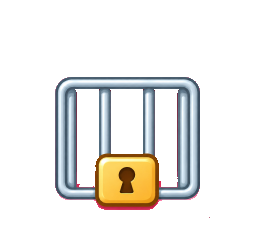
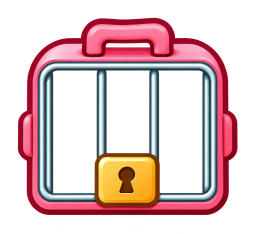
UI: lồng mèo theo Figma mới (con vật to trong lồng, lồng 145% ô), anim mở lồng cửa rời + mặt vui, hộp cardboard / thiếc to hơn
- Lồng: khung trước mới từ Figma, con vật đặt đúng mẫu ghép, lồng to 145% ô (được che con phía sau)
- Mở lồng: lồng giữ đóng tới lúc anim (cageHeld); cánh cửa (cắt từ bản cửa mở) rời ra rơi xuống,
  khung + thân lồng thu lại, con vật bật to rồi về đúng chỗ / cỡ thường; mặt vui lúc vừa được thả
- Sửa: con vật giữ cỡ phóng to sau khi thoát lồng (anim fill chưa huỷ)
- Hộp cardboard + hộp thiếc to ngang con vật (ảnh hộp mở phóng theo)

diff --git a/Gom-Gom-Ban-Choi/game/play/match-fx.js b/Gom-Gom-Ban-Choi/game/play/match-fx.js
@@ -3,12 +3,12 @@
 import { mergeTarget } from '../core/board-rules.mjs';
 import { clusterPoints, turnPoints, rollPoints, POINTS_PER_CRATE } from '../core/scoring.mjs';
 import { DRAG, EFFECTS } from '../data/tuning.mjs';
-import { CRATE_SVG, CRATE_OPEN_SRC, CAGE_OPEN_SRC } from '../ui/board-art.mjs';
+import { CRATE_SVG, CRATE_OPEN_SRC, CAGE_OPEN_SRC, CAGE_DOOR_SRC } from '../ui/board-art.mjs';
 import { playSound, playMeowChorus } from '../ui/sound.mjs';
 import { $, reduceMotion } from '../app/shared.js';
 import { W, DROP_MS, LIFT_MS, MERGE_MS, cellEl, pendingMerges, fxLayer, state, look, addArt, wait, H } from './context.js';
 import { holdScoreSlots, showMergeScore, releaseScoreSlot, scoreTier } from './score-bar.js';
-import { setFatMood, fatAnnoyedUntil, cageUp, uncage } from './board-view.js';
+import { setFatMood, fatAnnoyedUntil, cageUp, uncage, cageHeld } from './board-view.js';
 
 // Anim một lượt đặt thẻ đã chốt state (gom, thùng, chuồng, cỏ, khen, hiệu ứng). Dùng cho lượt người chơi và lượt xả sau khi thắng.
 export function animateTurn(turn) {
@@ -355,6 +355,8 @@ function flyGrass(cleaned, delay) {
 // Ô chuồng đã được vẽ lại theo trạng thái mới (bớt ổ khóa / hết chuồng), anim chạy chồng lên sau khi cụm gom xong.
 function rattleCages(match, delay) {
   if (reduceMotion.matches || (!match.caged?.length && !match.freed?.length)) return;
+  // Gọi trước khi vẽ lại bàn: ô được thả vẫn vẽ lồng đóng tới lúc anim mở.
+  match.freed.forEach(index => cageHeld.add(index));
   setTimeout(() => {
     const layer = fxLayer();
     match.caged.forEach(index => {
@@ -364,12 +366,7 @@ function rattleCages(match, delay) {
       cell.addEventListener('animationend', () => cell.classList.remove('cage-hit'), { once: true });
       flyBits(layer, cell, 'cage-lock', 1);
     });
-    match.freed.forEach(index => {
-      const cell = cellEl(index);
-      if (!cell) return;
-      flyBits(layer, cell, 'cage-lock', 1);
-      openCage(layer, cell);
-    });
+    match.freed.forEach(openCage);
   }, delay);
 }
 
@@ -390,6 +387,7 @@ export function flyBits(layer, cell, className, count) {
 // Nạp sẵn ảnh hộp mở / lồng mở để lúc đổi ảnh không bị trống một khung.
 new Image().src = CRATE_OPEN_SRC;
 new Image().src = CAGE_OPEN_SRC;
+new Image().src = CAGE_DOOR_SRC;
 // Bật mở mượt: nén xuống lấy đà, ảnh "mở" hiện dần chồng lên ảnh "đóng" trong lúc bật lên, giữ một nhịp, rồi bay nhẹ lên + mờ dần + khói.
 async function openUp(ghost, openSrc) {
   const shut = ghost.querySelector('img');
@@ -409,14 +407,62 @@ async function openUp(ghost, openSrc) {
   await ghost.animate([{ scale: 1, opacity: 1, translate: '0 0' }, { scale: .7, opacity: 0, translate: '0 -12%' }],
     { duration: 320, easing: 'ease-in', fill: 'forwards' }).finished.catch(() => {});
 }
-// Lồng bật cửa khi mèo được thả: bóng lồng đóng tại ô, mở cửa (openUp) rồi tan; mèo thật bên dưới đã ra khỏi lồng.
-function openCage(layer, cell) {
-  const ghost = document.createElement('span');
-  ghost.className = 'cage-ghost';
-  ghost.style.cssText = `left:${cell.offsetLeft}px;top:${cell.offsetTop}px;width:${cell.offsetWidth}px;height:${cell.offsetHeight}px`;
-  ghost.innerHTML = `<img src="assets/img/board/cage.png" alt="">`;
-  layer.append(ghost);
-  openUp(ghost, CAGE_OPEN_SRC).then(() => ghost.remove());
+// Lồng mở khi con vật được thả. Ô thật vẫn vẽ lồng đóng (cageHeld) tới lúc này; anim chạy ngay trong khung .cage-box của ô
+// (thân lồng -> con vật -> khung trước -> cánh cửa; bàn là cảnh 3D nên lớp hiệu ứng riêng không xếp xen được).
+// Khung trước đổi sang bản cửa mở (đã bỏ cánh cửa) + cánh cửa tách riêng, rồi CÙNG LÚC:
+// - cánh cửa bung ra, rời khỏi lồng, xoay và rơi xuống, mờ dần;
+// - thân lồng + khung trước thu lại cùng nhau, mờ dần (ease-out: chuyển động ngay từ đầu);
+// - con vật bật to lên (được thả) rồi về đúng chỗ / cỡ thường của ô (đo thật: cuối anim khớp ô, rút khỏi khung không giật).
+const CAGE_OPEN_MS = 520;
+const PET_POP = 1.18;
+function openCage(index) {
+  const cell = cellEl(index);
+  const release = () => {
+    cageHeld.delete(index);
+    const now = cellEl(index);
+    if (!now?.querySelector('.cage-box') || state.board[index]?.cage) return;
+    // anim của con vật có fill: forwards -> phải huỷ trước khi rút ra, không thì nó giữ cỡ / chỗ cuối anim ở ô thường (lỗi cũ: to hơn con khác)
+    now.querySelectorAll('.cage-box > *').forEach(el => el.getAnimations().forEach(anim => anim.cancel()));
+    uncage(now);
+    now.classList.remove('caged', 'cage-opening');
+  };
+  const pet = cell?.querySelector('.cage-box > .cat');
+  if (!pet || state.board[index]?.cage) return release();
+  // Đo chỗ con vật khi ra khỏi lồng (rút ra, đo, cất lại trong cùng một khung hình nên không thấy chớp).
+  const caged = pet.getBoundingClientRect();
+  uncage(cell);
+  cell.classList.remove('caged');
+  const free = cell.querySelector(':scope > .cat').getBoundingClientRect();
+  cell.classList.add('caged', 'cage-opening');
+  cageUp(cell);
+  // Vừa được thả: mặt vui ngay từ lúc lồng bung, giữ thêm một nhịp sau khi ra khỏi lồng (.cheered: chỉ đổi mặt, không nhảy chồng lên anim thả).
+  clearTimeout(cell.petTimer);
+  cell.classList.remove('idle-cute', 'grumpy', 'grumpy-chew');
+  cell.classList.add('petted', 'cheered');
+  cell.petTimer = setTimeout(() => cell.classList.remove('petted', 'cheered'), CAGE_OPEN_MS + 1000);
+  const box = cell.querySelector('.cage-box'), boxRect = box.getBoundingClientRect();
+  const kx = box.offsetWidth / boxRect.width, ky = box.offsetHeight / boxRect.height;
+  const inBox = cell.querySelector('.cage-box > .cat'), front = cell.querySelector('.cage-front'), back = cell.querySelector('.cage-back');
+  front.src = CAGE_OPEN_SRC;
+  front.insertAdjacentHTML('afterend', `<img class="cage-door" src="${CAGE_DOOR_SRC}" alt="" draggable="false">`);
+  const door = cell.querySelector('.cage-door');
+  const dx = (free.left - caged.left) * kx, dy = (free.top - caged.top) * ky, k = free.width / caged.width;
+  const opts = { duration: CAGE_OPEN_MS, fill: 'forwards' };
+  // phóng quanh tâm con vật: bù phần dịch do transform-origin 0 0
+  const w = inBox.offsetWidth, h = inBox.offsetHeight, pop = k * PET_POP;
+  inBox.animate([
+    { translate: '0 0', scale: 1 },
+    { translate: `${dx * .5 - w * (pop - 1) / 2}px ${dy * .5 - h * (pop - 1) * .8}px`, scale: pop, offset: .4, easing: 'ease-in-out' },
+    { translate: `${dx}px ${dy}px`, scale: k },
+  ], { ...opts, easing: 'ease-out' });
+  door.animate([
+    { translate: '0 0', rotate: '0deg', opacity: 1, easing: 'ease-out' },
+    { translate: '-8% -6%', rotate: '-10deg', opacity: 1, offset: .25, easing: 'ease-in' },
+    { translate: '-14% 75%', rotate: '-35deg', opacity: 0 },
+  ], opts);
+  const shrink = [{ scale: 1, opacity: 1 }, { scale: .3, opacity: 0 }];
+  front.animate(shrink, { ...opts, easing: 'cubic-bezier(.2,.6,.35,1)' });
+  back.animate(shrink, { ...opts, easing: 'cubic-bezier(.2,.6,.35,1)' }).finished.then(release, release);
 }
 // Bóng hộp giữ nguyên chỗ cũ tới lúc gom xong, rung lên, bật nắp, giữ một nhịp rồi thu nhỏ biến mất + khói.
 export function breakCrates(indices, delay) {

diff --git a/Gom-Gom-Ban-Choi/game/ui/play/base.css b/Gom-Gom-Ban-Choi/game/ui/play/base.css
@@ -412,10 +412,10 @@ body.card-dragging .tutorial-hand{visibility:hidden}
 /* ===== Thùng gỗ: ô chặn, vỡ khi gom mèo sát bên ===== */
 .cell.block{padding:1px;border:0;background:none;box-shadow:none;cursor:default}
 .cell.block .crate{width:100%;height:100%;display:block;object-fit:contain;filter:drop-shadow(0 3px 2px #6b3f1c55)}
-/* ảnh Figma có lề trong suốt: phóng nhẹ cho hộp to ngang mèo */
-img.crate{scale:1.12}
+/* ảnh Figma có lề trong suốt: phóng cho hộp (cardboard + thiếc) to ngang con vật; đáy giữ sát đáy ô, phần dư nhô lên che bớt ô phía sau */
+img.crate{scale:1.32;translate:0 -8%}
 /* hộp mở: ảnh rộng hơn (nắp chĩa ra) cùng tỉ lệ với hộp đóng, đáy giữ nguyên chỗ */
-img.crate.open{position:absolute;inset:0;scale:1.34;translate:0 -9%}
+img.crate.open{position:absolute;inset:0;scale:1.58;translate:0 -17%}
 .crate-ghost{position:absolute;z-index:3}
 .crate-shard{position:absolute;z-index:5;width:14px;height:6px;border-radius:2px;background:#d08f4e;box-shadow:0 1px 0 #6d4020;pointer-events:none}
 /* Vui vẻ (chạm mèo / gom) thắng mọi biểu cảm buồn: ẩn mặt buồn/ngủ, giữ nhịp nhảy vui thay vì rung/khóc. */
@@ -431,11 +431,19 @@ img.crate.open{position:absolute;inset:0;scale:1.34;translate:0 -9%}
 .cell.caged .cage-bars{position:absolute;inset:-4%;width:108%;height:108%;pointer-events:none;transform:rotateX(calc(var(--tilt) * -1)) translateZ(4px);transform-origin:50% 95%;filter:drop-shadow(0 2px 1px #1d361250)}
 /* Lồng Figma (board-view.js cageUp): khung .cage-box dựng đứng như mèo, PHẲNG bên trong -> thân lồng, mèo, song sắt xếp theo DOM.
    Ảnh có lề trong suốt: khung 120% ô. Mèo đặt vừa ô cửa lồng, bỏ dáng 3D riêng của mèo (khung đã dựng đứng). */
-.cell.caged .cage-box{inset:-10%;width:120%;height:120%;transform:rotateX(calc(var(--tilt) * -1));transform-origin:50% 90%;transform-style:flat;filter:drop-shadow(0 2px 1px #1d361250)}
+/* lồng to 145% ô (được phép che con phía sau), giữ đáy lồng ở chỗ cũ (110% ô), canh giữa ngang */
+.cell.caged .cage-box{inset:auto;left:-22.5%;top:-35%;width:145%;height:145%;transform:rotateX(calc(var(--tilt) * -1));transform-origin:50% 90%;transform-style:flat;filter:drop-shadow(0 2px 1px #1d361250)}
 .cage-box>img{position:absolute;inset:0;width:100%;height:100%}
-.cage-box>.cat{position:absolute;left:22%;top:28%;width:56%;height:58%;transform:none!important}
-.cage-ghost{position:absolute;z-index:4;pointer-events:none}
-.cage-ghost img{position:absolute;inset:-4%;width:108%;height:108%}
+/* mèo khớp mẫu Figma (khung 1312×1199, ảnh mèo 923 vuông ở x 194 y 222). Ảnh mèo nằm trong svg viewBox 100×106 ở x 6.19 y 14.88 cỡ 87.32
+   -> svg rộng 923 / .8732 = 1057, đặt ở x 128.6 y 64.7, cao 1120. Khung trước thấp hơn thân 15 px như Figma. */
+.cage-box>.cat{position:absolute;left:9.8%;top:5.4%;width:80.56%;height:93.4%;transform:none!important}
+.cage-box>.cage-front{top:1.25%}
+/* lồng đang mở (match-fx.js openCage): con vật hết xám, cửa mở cùng khung với thân lồng, con vật thu về cỡ thường từ đáy */
+.board .cell.cage-opening .cat{filter:none}
+.cell.cage-opening .cage-front{top:0}
+.cell.cage-opening .cage-box>.cat{transform-origin:0 0}
+.cell.cage-opening .cage-back,.cell.cage-opening .cage-front{transform-origin:50% 62%}
+.cage-box>.cage-door{transform-origin:25% 60%}
 /* (translateZ: mèo đứng thẳng bị đẩy lên trước ~1px trong không gian 3D của bàn, chuồng phải nằm trước mèo) */
 .cell.cage-hit .cage-bars{animation:cage-shake .42s ease-in-out}
 @keyframes cage-shake{0%,100%{rotate:0deg}20%{rotate:-6deg}45%{rotate:5deg}70%{rotate:-3deg}}

diff --git a/Gom-Gom-Ban-Choi/game/play/board-view.js b/Gom-Gom-Ban-Choi/game/play/board-view.js
@@ -67,7 +67,8 @@ export function renderBoard() {
       cell.innerHTML = object.metal ? METAL_SVG : CRATE_SVG;
       return;
     }
-    cell.className = `cell ${object ? `locked ${object.group}` : 'empty'}${object?.cage ? ` caged cage-${object.cage}` : ''}${grass ? ' grass' : ''}`;
+    const held = cageHeld.has(index) && object && !object.cage;
+    cell.className = `cell ${object ? `locked ${object.group}` : 'empty'}${object?.cage ? ` caged cage-${object.cage}` : held ? ' caged' : ''}${grass ? ' grass' : ''}`;
     cell.setAttribute('aria-label', !object ? `Cell ${index + 1}, empty${grass ? ', on grass' : ''}`
       : object.cage ? `Caged ${look(object.group).name}. Match next to it to break the lock` : `${object.name}${grass ? ', on grass' : ''}, locked`);
     if (grass) {
@@ -80,7 +81,7 @@ export function renderBoard() {
     if (!object) return;
     cell.style.setProperty('--group-color', look(object.group).color);
     addArt(cell, object);
-    if (object.cage) cageUp(cell);
+    if (object.cage || held) cageUp(cell);
     if (state.justPlaced?.has(index) && !reduceMotion.matches) {
       cell.classList.add('drop');
       cell.addEventListener('animationend', () => cell.classList.remove('drop'), { once: true });
@@ -173,6 +174,8 @@ function petCat(cell) {
 
 // Lồng mèo: bàn là cảnh 3D (preserve-3d) nên z-index không xếp được mèo giữa thân lồng và song sắt; mèo được chuyển VÀO khung lồng
 // (dựng đứng, phẳng) nằm giữa hai lớp ảnh. uncage trả mèo ra ô rồi bỏ khung.
+// Ô vừa được thả khỏi lồng nhưng anim mở lồng chưa chạy (match-fx.js rattleCages): vẫn vẽ lồng đóng, không lộ con vật ra trước.
+export const cageHeld = new Set();
 export function cageUp(cell) {
   cell.insertAdjacentHTML('beforeend', cageSvg());
   const cat = cell.querySelector(':scope > .cat');
